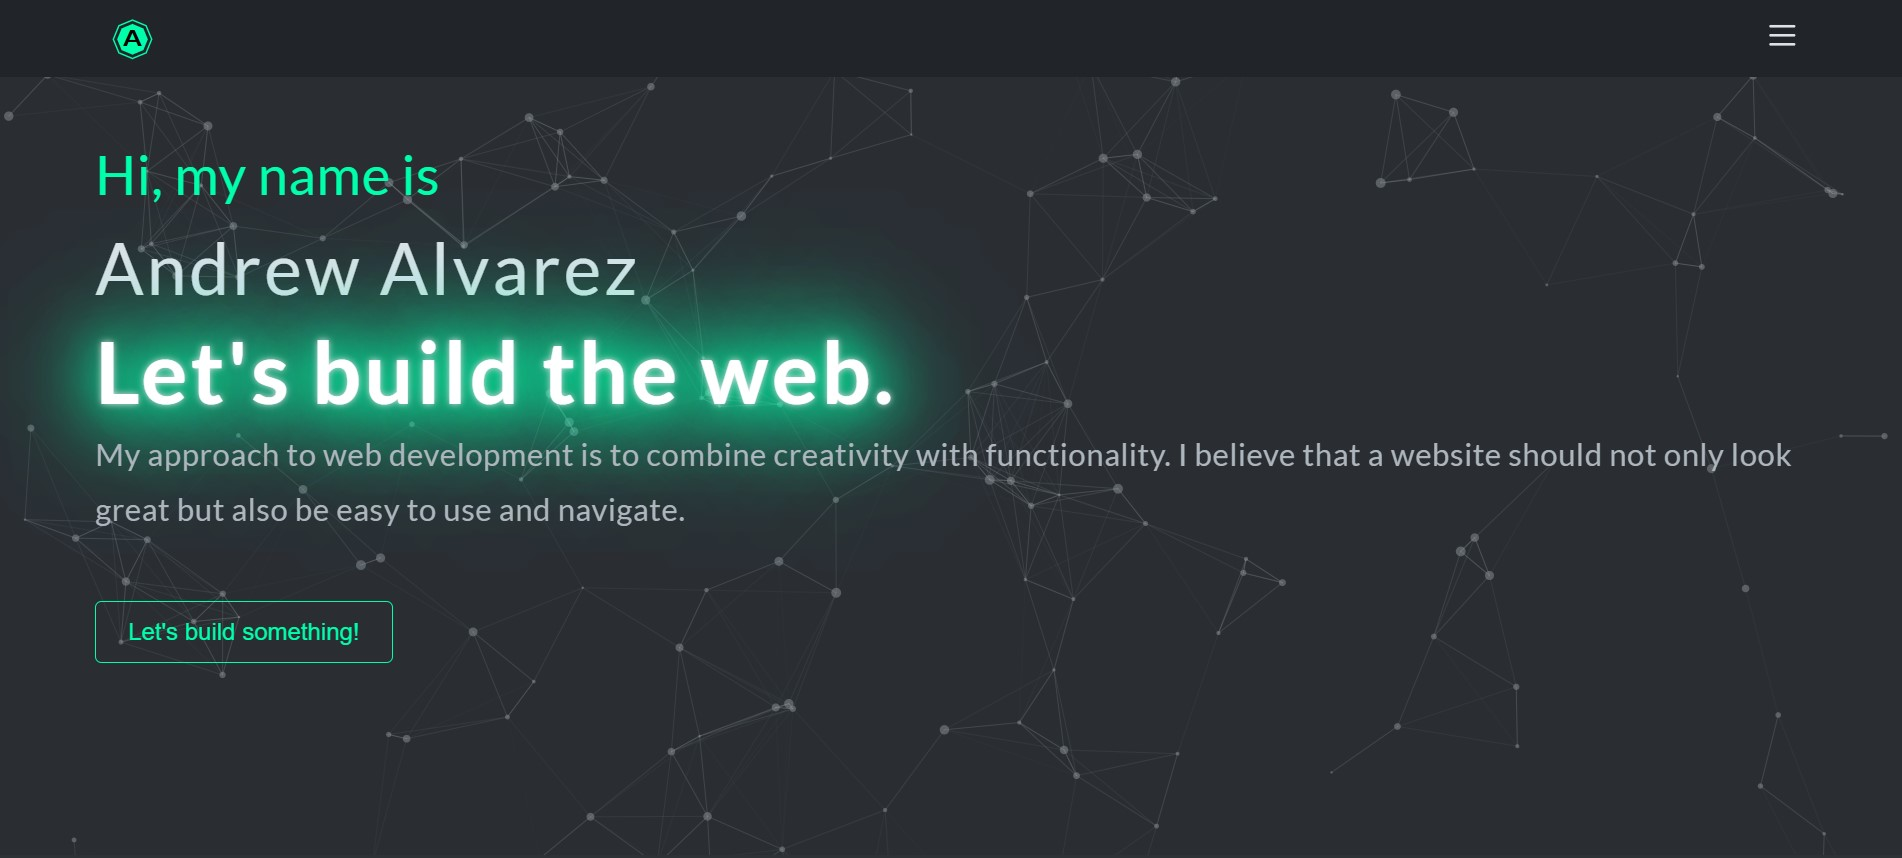
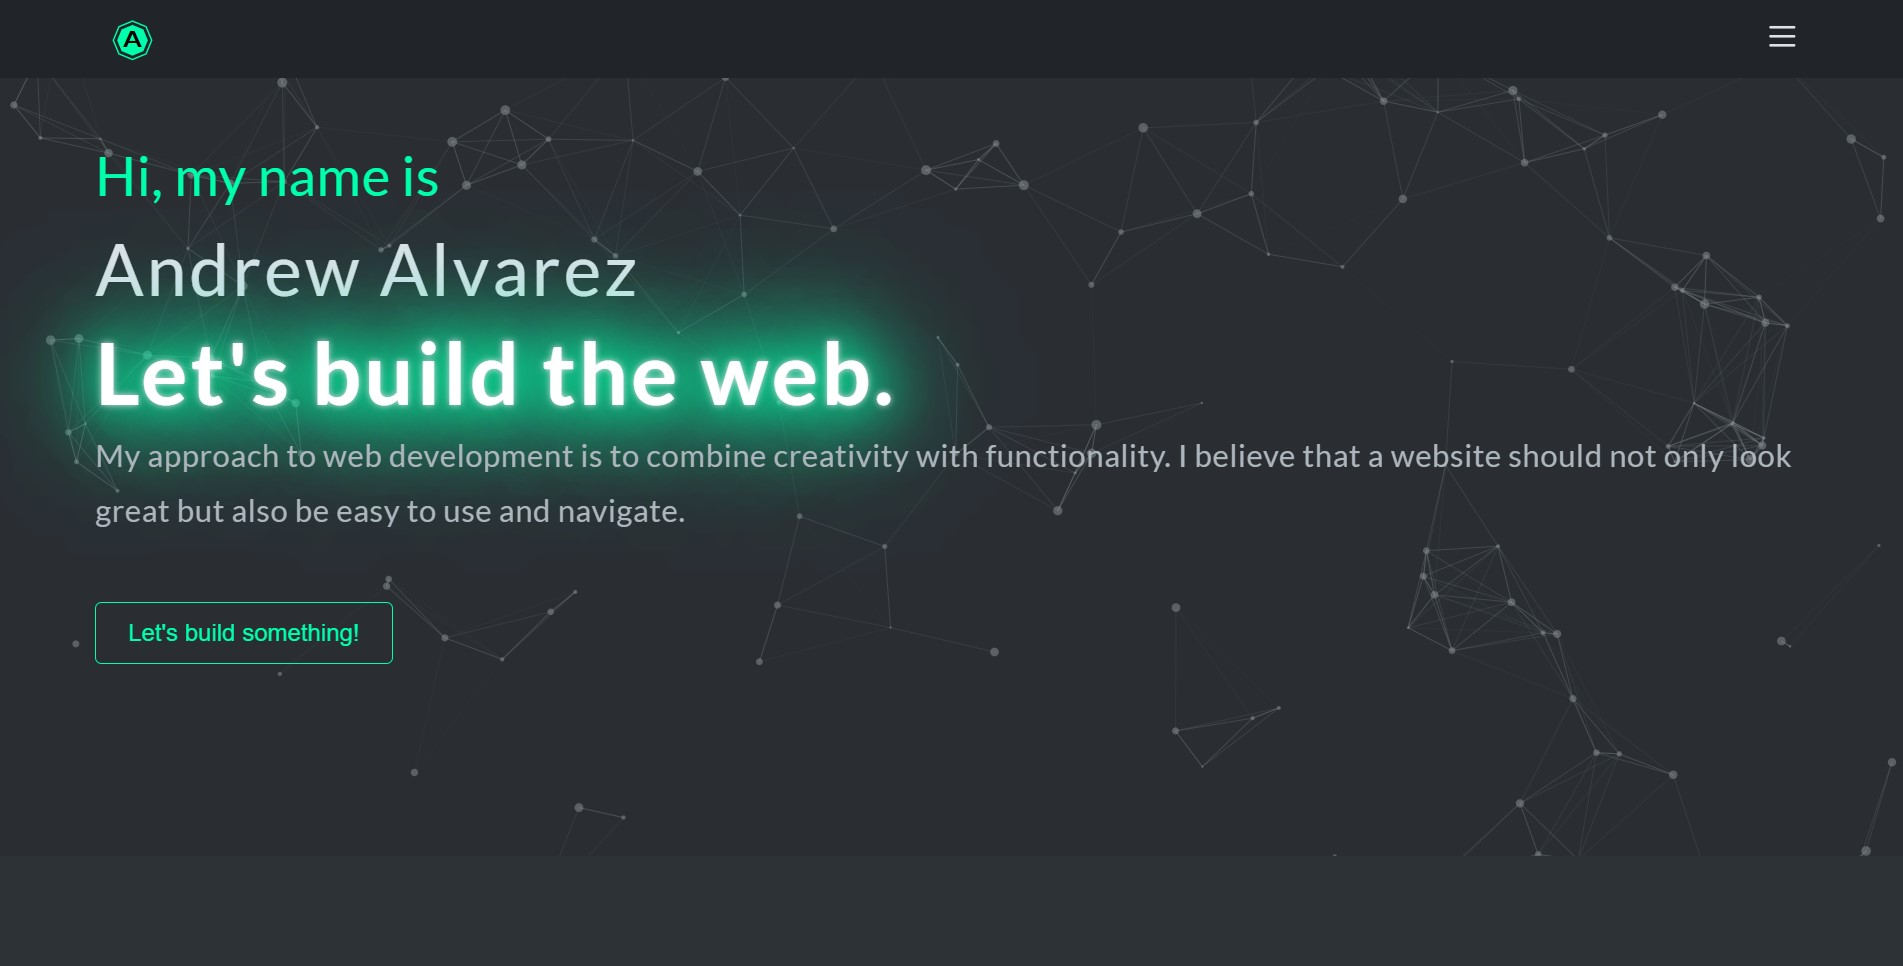
Remove footer, Add text to chat bubble

diff --git a/components/Experience.tsx b/components/Experience.tsx
@@ -8,8 +8,10 @@ import Heading from './utilities/Heading';
 import Project from './Project';
 import { motion } from 'framer-motion';
 
+const portfolioText = `This is the website you're currently on! I wanted a place to show my past and future projects while working with something new, Next.js, and all the challenges that come with it.`;
+
 const urbanUndergroundText =
-  'Urban Underground - HTML, CSS, Javascript - Urban Underground is a personal project where I took the lessons learned about web design to create a beautiful page for a fictitious fashion magazine.';
+  'Urban Underground is a personal project where I took the lessons learned about web design to create a beautiful page for a fictitious fashion magazine.';
 
 const konreadsText =
   'Konreads - HTML, CSS, Javascript - Dark and elegant, Konreads is a book blog where the owner requested a design that was less standard than your typical blog.';
@@ -32,7 +34,7 @@ export default function Experience() {
             'CSS',
             'JavaScript',
           ]}
-          text={urbanUndergroundText}
+          text={portfolioText}
           link={'#'}
           github={'https://github.com/AndrewCAlvarez/nextjs_portfolio'}
         />

diff --git a/components/About.tsx b/components/About.tsx
@@ -8,6 +8,7 @@ import Head from 'next/head';
 import { FaPaintBrush, FaMusic, FaBone, FaBook } from 'react-icons/fa';
 import { LuDog, LuBrush, LuMusic, LuBookMarked } from 'react-icons/lu';
 import { TbMessageCircle2Filled } from 'react-icons/tb';
+import ChatBubble from './misc/ChatBubble';
 import { motion } from 'framer-motion';
 
 export default function About() {
@@ -55,12 +56,13 @@ export default function About() {
           src={headshot}
           alt='Picture of Andrew.'
         />
-        <TbMessageCircle2Filled className={styles['icon-profile']} />
+        <ChatBubble />
+        {/* <TbMessageCircle2Filled className={styles['icon-profile']} /> */}
       </div>
       <p className={styles.text1}>
         {`I'm Andrew Alvarez, a web developer with a passion for creating
-        beautiful and functional websites. My expertise lies
-        in frontend development using frontend frameworks such as React, and I am always
+        fun and functional websites and applications. My expertise lies
+        in frontend development, and I am always
         up for a new challenge.`}
       </p>
 

diff --git a/components/misc/ChatBubble.tsx b/components/misc/ChatBubble.tsx
@@ -1,0 +1,21 @@
+import { TbMessageCircle2Filled } from 'react-icons/tb';
+import styles from './ChatBubble.module.css';
+import { motion } from 'framer-motion';
+
+const ChatBubble = () => {
+  return (
+    <motion.div
+      className={styles.container}
+      initial={{ opacity: 0, scale: 0 }}
+      whileInView={{
+        opacity: 1,
+        scale: 1,
+        transition: { duration: 0.4 },
+      }}
+    >
+      <TbMessageCircle2Filled className={styles['icon-profile']} />
+    </motion.div>
+  );
+};
+
+export default ChatBubble;

diff --git a/components/misc/ChatBubble.module.css b/components/misc/ChatBubble.module.css
@@ -1,0 +1,17 @@
+.container {
+  color: var(--black);
+  font-size: 6rem;
+  position: relative;
+
+  display: flex;
+  justify-content: center;
+  align-items: flex-start;
+}
+
+.container::before {
+  content: 'Hey';
+  top: 23px;
+  position: absolute;
+  color: var(--secondary);
+  font-size: 1.8rem;
+}

diff --git a/pages/index.tsx b/pages/index.tsx
@@ -28,7 +28,7 @@ export default function Home() {
         <Experience />
         <Contact />
       </main>
-      <Footer />
+      {/* <Footer /> */}
     </>
   );
 }
